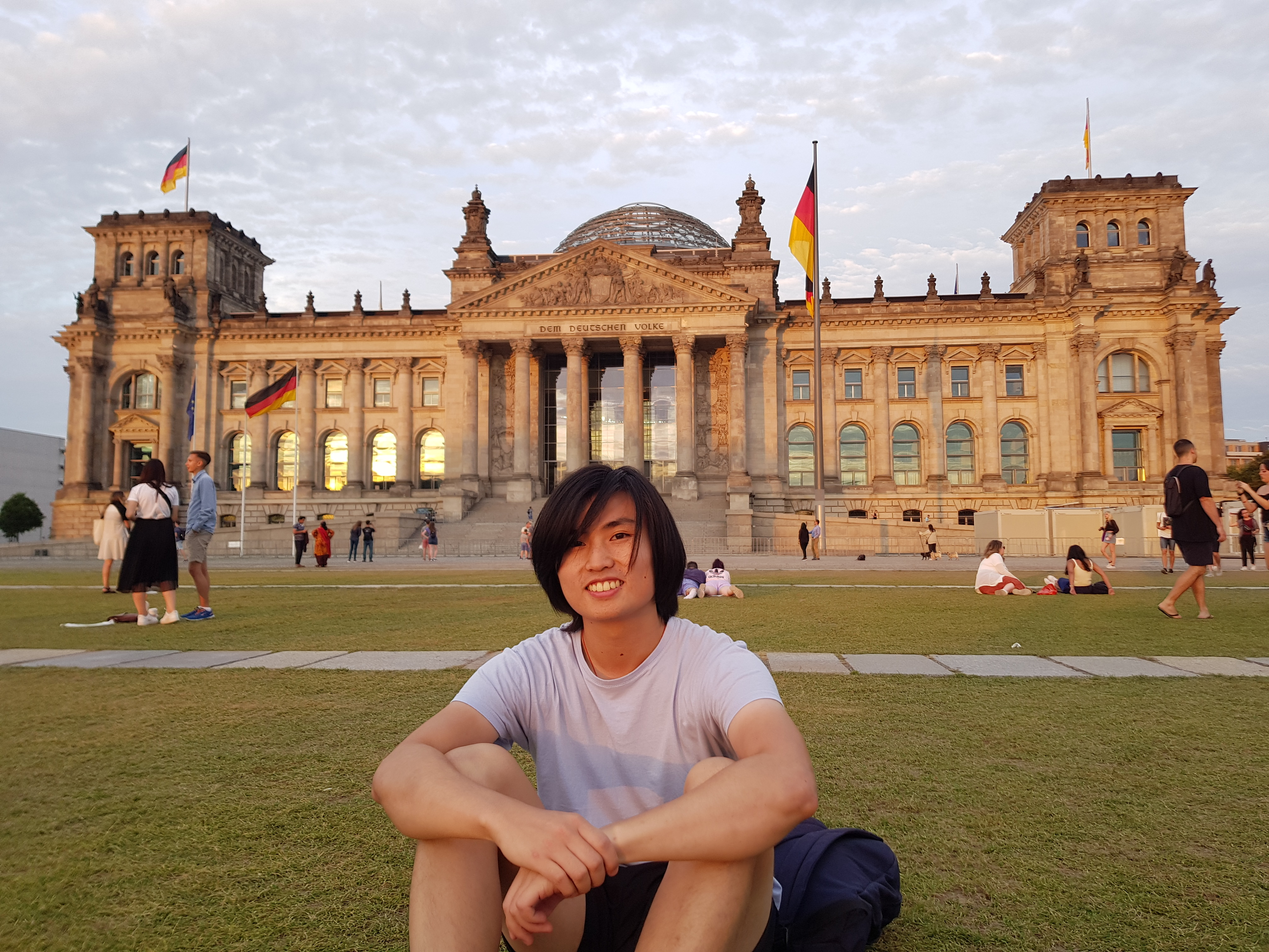
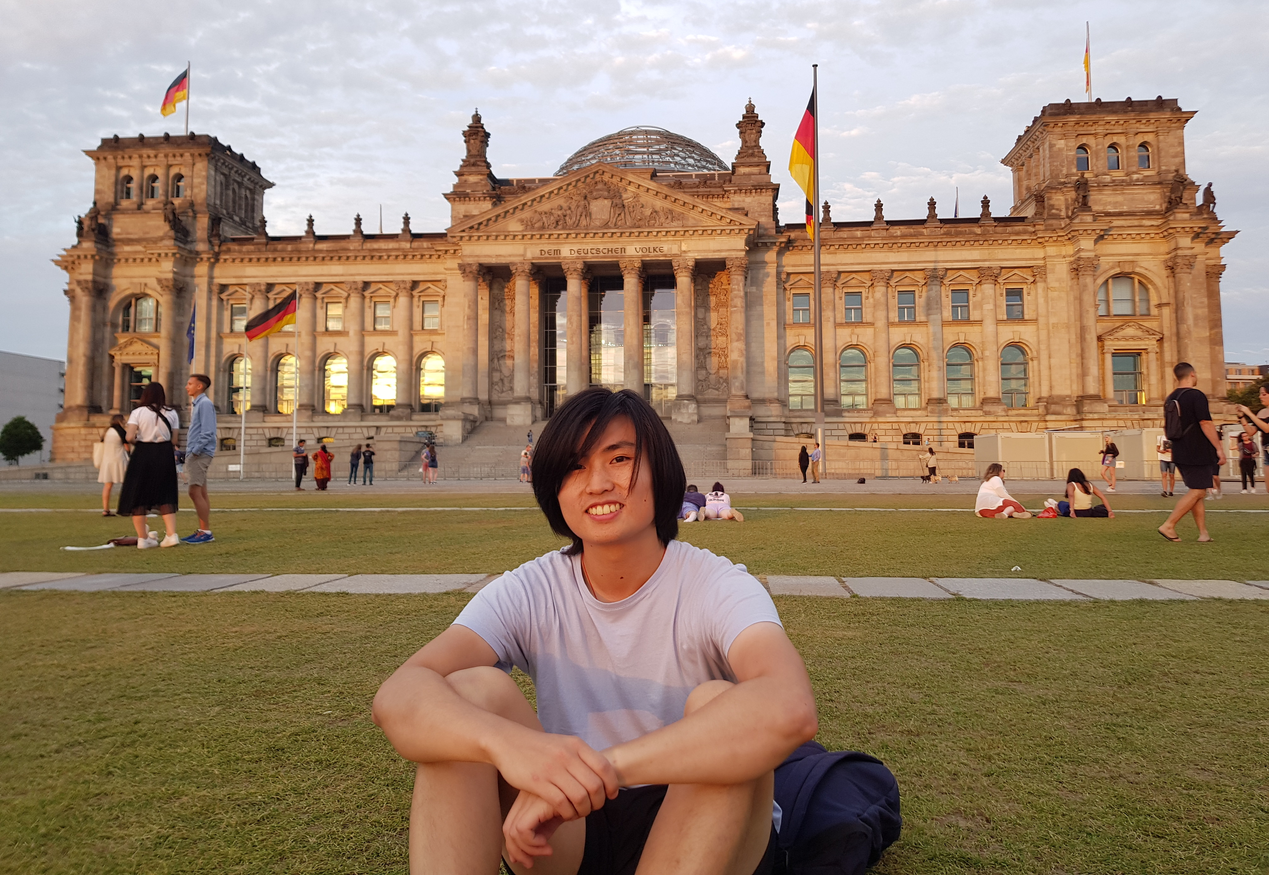
Resize about page image

diff --git a/index.html b/index.html
@@ -15,7 +15,7 @@
 				<h1 class="name">Chao</h1>
 			</div>
 			<ul class="menu">
-				<li><a class="about" href="https://github.com/chaotea/website/blob/master/about.md">About</a></li>
+				<li><a class="about" href="https://github.com/chaotea/website/blob/master/about.md#hi">About</a></li>
 				<li><a class="photography" href="https://instagram.com/oolong_chao">Photography</a></li>
 				<li><a class="linkedin" href="https://www.linkedin.com/in/chao-cheng/">LinkedIn</a></li>
 			</ul>

diff --git a/about.md b/about.md
@@ -1,5 +1,7 @@
+## About Me
+
 ### Hi!
 
 Welcome to my website! At the moment it's a bit basic (if you couldn't tell already by the state of this about page) but one of these days I'll find some time to make it pretty. Anyways, about me: I'm a freshman at Harvard studying math and trying not to collapse under the immense weight of these psets. In my free time I like to code, take photos, eat food, and watch movies. That's pretty much it. Thanks for checking out my website! 😊
 
-![A picture of me!!](https://github.com/chaotea/website/blob/master/assets/images/bundestag.jpg)
+![A picture of me!!](assets/images/bundestag.jpg)
